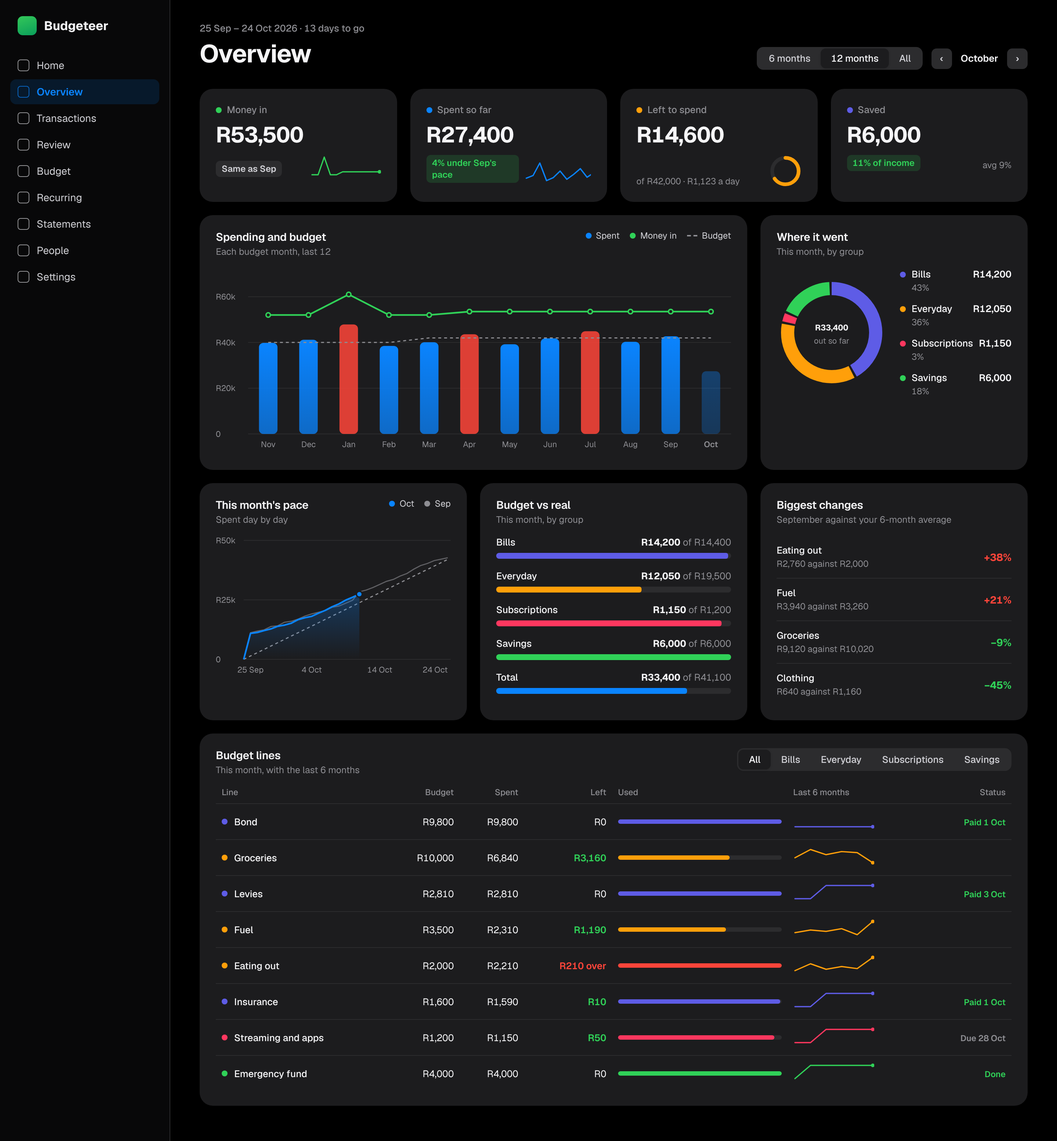
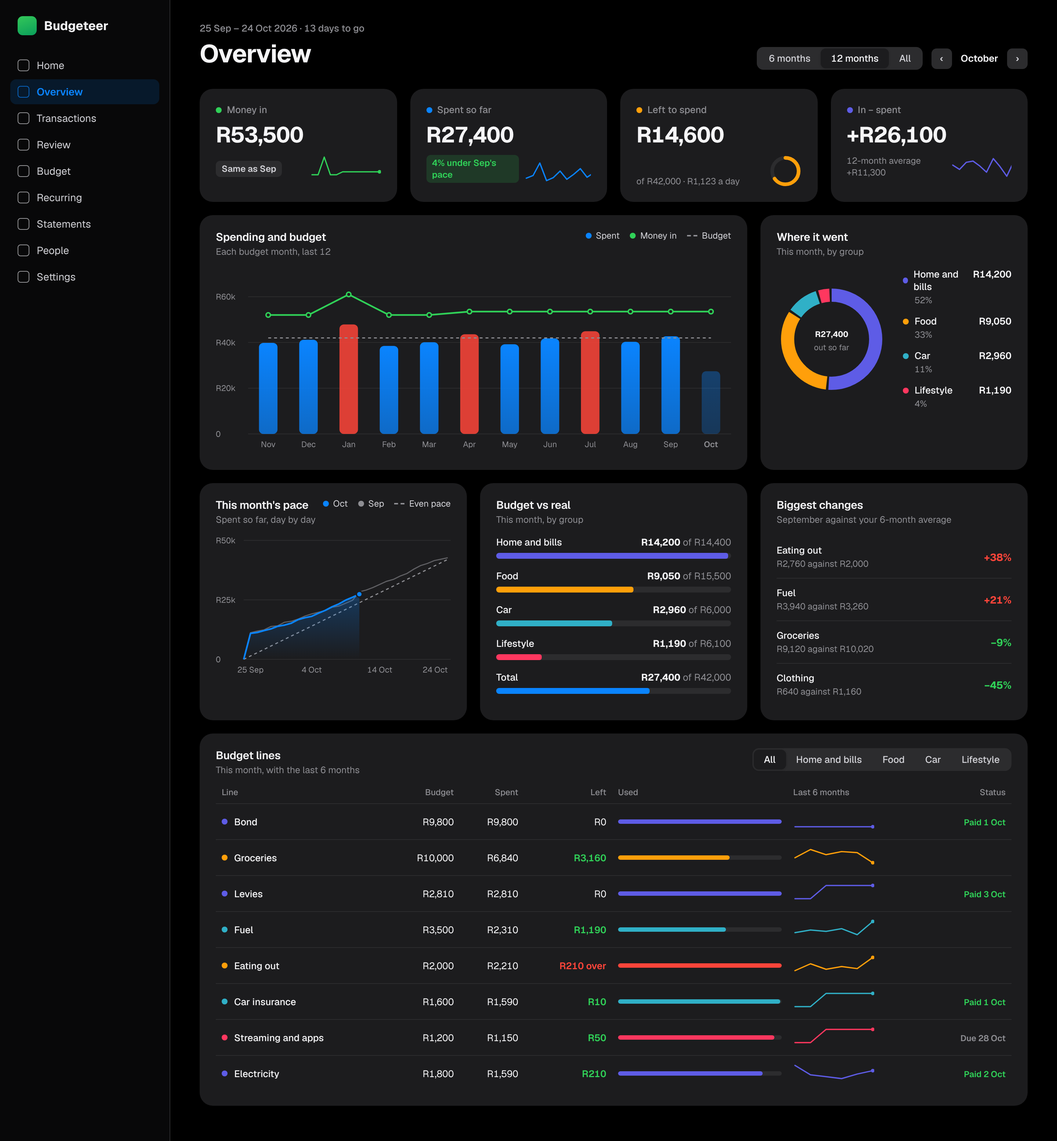
Desktop plan: the household's own groups, no savings, spending against the even pace
Claude-Session: https://claude.ai/code/session_017ijM4qa1Z928y2xQP9epqk

diff --git a/docs/mockups/desktop-overview.html b/docs/mockups/desktop-overview.html
@@ -9,7 +9,7 @@
 :root {
     --bg: #f5f5f7; --card: #ffffff; --text: #1d1d1f; --text-2: #424245; --muted: #86868b; --line: #e8e8ed; --track: #ececf0;
     --blue: #007aff; --green: #34c759; --red: #ff3b30; --orange: #ff9500; --indigo: #5856d6; --pink: #ff2d55; --teal: #30b0c7;
-    --bills: var(--indigo); --everyday: var(--orange); --subs: var(--pink); --savings: var(--green);
+    --g1: var(--indigo); --g2: var(--orange); --g3: var(--teal); --g4: var(--pink);
     --shadow: 0 1px 2px rgba(0,0,0,.04), 0 6px 24px rgba(0,0,0,.05);
 }
 :root[data-theme="dark"] {
@@ -128,9 +128,9 @@ td.num, th.num { text-align: right; }
                 <div class="foot"><span class="note">of R42,000 · R1,123 a day</span><svg id="ring" width="44" height="44"></svg></div>
             </section>
             <section class="card kpi c3">
-                <p class="label"><span class="dot" style="background:var(--indigo)"></span>Saved</p>
-                <p class="value">R6,000</p>
-                <div class="foot"><span class="chip good">11% of income</span><span class="note">avg 9%</span></div>
+                <p class="label"><span class="dot" style="background:var(--indigo)"></span>In − spent</p>
+                <p class="value">+R26,100</p>
+                <div class="foot"><span class="note">12-month average +R11,300</span><svg id="spark-net" width="96" height="30"></svg></div>
             </section>
 
             <section class="card c8">
@@ -150,8 +150,8 @@ td.num, th.num { text-align: right; }
 
             <section class="card c4">
                 <div class="card-head">
-                    <div><h2>This month's pace</h2><p class="sub">Spent day by day</p></div>
-                    <div class="legend"><span><span class="dot" style="background:var(--blue)"></span>Oct</span><span><span class="dot" style="background:var(--muted)"></span>Sep</span></div>
+                    <div><h2>This month's pace</h2><p class="sub">Spent so far, day by day</p></div>
+                    <div class="legend"><span><span class="dot" style="background:var(--blue)"></span>Oct</span><span><span class="dot" style="background:var(--muted)"></span>Sep</span><span><span class="dash"></span>Even pace</span></div>
                 </div>
                 <svg id="pace" width="100%" height="190"></svg>
             </section>
@@ -167,7 +167,7 @@ td.num, th.num { text-align: right; }
             <section class="card c12">
                 <div class="card-head">
                     <div><h2>Budget lines</h2><p class="sub">This month, with the last 6 months</p></div>
-                    <div class="seg"><span class="on">All</span><span>Bills</span><span>Everyday</span><span>Subscriptions</span><span>Savings</span></div>
+                    <div class="seg"><span class="on">All</span><span>Home and bills</span><span>Food</span><span>Car</span><span>Lifestyle</span></div>
                 </div>
                 <table>
                     <thead><tr><th>Line</th><th class="num">Budget</th><th class="num">Spent</th><th class="num">Left</th><th style="width:22%">Used</th><th>Last 6 months</th><th class="num">Status</th></tr></thead>
@@ -188,7 +188,7 @@ const css = v => getComputedStyle(document.documentElement).getPropertyValue(v).
 const months = ['Nov', 'Dec', 'Jan', 'Feb', 'Mar', 'Apr', 'May', 'Jun', 'Jul', 'Aug', 'Sep', 'Oct'];
 const spent = [39800, 41200, 47900, 38500, 40100, 43600, 39200, 41800, 44900, 40300, 42700, 27400];
 const income = [52000, 52000, 61000, 52000, 52000, 53500, 53500, 53500, 53500, 53500, 53500, 53500];
-const budget = [40000, 40000, 40000, 40000, 42000, 42000, 42000, 42000, 42000, 42000, 42000, 42000];
+const budget = Array(12).fill(42000); // today's budget for every month
 
 function spark(id, data, colour) {
     const s = document.getElementById(id), w = +s.getAttribute('width'), h = +s.getAttribute('height');
@@ -197,6 +197,7 @@ function spark(id, data, colour) {
     el('circle', { cx: x(data.length - 1), cy: y(data.at(-1)), r: 2.5, fill: colour }, s);
 }
 spark('spark-in', income, css('--green'));
+spark('spark-net', [12200, 10800, 13100, 13500, 11900, 9900, 14300, 11700, 8600, 13200, 10800], css('--indigo'));
 spark('spark-out', [39800, 41200, 47900, 38500, 40100, 43600, 39200, 41800, 44900, 40300, 42700], css('--blue'));
 
 // Ring: the share of the budget used.
@@ -222,7 +223,7 @@ spark('spark-out', [39800, 41200, 47900, 38500, 40100, 43600, 39200, 41800, 4490
 })();
 
 // Donut by group.
-const groups = [['Bills', 14200, '--bills'], ['Everyday', 12050, '--everyday'], ['Subscriptions', 1150, '--subs'], ['Savings', 6000, '--savings']];
+const groups = [['Home and bills', 14200, '--g1'], ['Food', 9050, '--g2'], ['Car', 2960, '--g3'], ['Lifestyle', 1190, '--g4']];
 (() => { const s = document.getElementById('donut'), r = 60, c = 2 * Math.PI * r, total = groups.reduce((a, g) => a + g[1], 0); let off = 0;
     groups.forEach(([n, v, col]) => { const len = c * v / total; el('circle', { cx: 75, cy: 75, r, fill: 'none', stroke: css(col), 'stroke-width': 18, 'stroke-dasharray': `${Math.max(0, len - 3)} ${c}`, 'stroke-dashoffset': -off, transform: 'rotate(-90 75 75)' }, s); off += len; });
     const t1 = el('text', { x: 75, y: 72, 'text-anchor': 'middle', 'font-size': 18, 'font-weight': 700 }, s); t1.textContent = R(total); t1.style.fill = css('--text');
@@ -248,21 +249,21 @@ const groups = [['Bills', 14200, '--bills'], ['Everyday', 12050, '--everyday'], 
 })();
 
 // Budget vs real per group: a track for the budget, filled to what is spent.
-document.getElementById('bvr').innerHTML = [['Bills', 14200, 14400, '--bills'], ['Everyday', 12050, 19500, '--everyday'], ['Subscriptions', 1150, 1200, '--subs'], ['Savings', 6000, 6000, '--savings'], ['Not on a line', 0, 900, '--muted']].slice(0, 4).concat([['Total', 33400, 41100, '--blue']]).map(([n, v, bud, col]) =>
+document.getElementById('bvr').innerHTML = [['Home and bills', 14200, 14400, '--g1'], ['Food', 9050, 15500, '--g2'], ['Car', 2960, 6000, '--g3'], ['Lifestyle', 1190, 6100, '--g4'], ['Total', 27400, 42000, '--blue']].map(([n, v, bud, col]) =>
     `<div style="margin-bottom:15px"><div style="display:flex;justify-content:space-between;font-size:13px;margin-bottom:6px"><span style="font-weight:500">${n}</span><span><b>${R(v)}</b> <span style="color:var(--muted)">of ${R(bud)}</span></span></div><div class="prog" style="height:8px;border-radius:4px"><div style="width:${Math.min(100, v / bud * 100)}%;background:var(${col})"></div></div></div>`).join('');
 
 document.getElementById('changes').innerHTML = [['Eating out', 'R2,760 against R2,000', '+38%', 'up'], ['Fuel', 'R3,940 against R3,260', '+21%', 'up'], ['Groceries', 'R9,120 against R10,020', '−9%', 'down'], ['Clothing', 'R640 against R1,160', '−45%', 'down']].map(([n, s, p, d]) =>
     `<div class="change"><div class="who"><b>${n}</b><span>${s}</span></div><span class="pct ${d}">${p}</span></div>`).join('');
 
 const lines = [
-    ['Bond', '--bills', 9800, 9800, 'Paid 1 Oct', [9800, 9800, 9800, 9800, 9800, 9800]],
-    ['Groceries', '--everyday', 10000, 6840, '', [9600, 10400, 9900, 10200, 10100, 9120]],
-    ['Levies', '--bills', 2810, 2810, 'Paid 3 Oct', [2690, 2690, 2810, 2810, 2810, 2810]],
-    ['Fuel', '--everyday', 3500, 2310, '', [3100, 3300, 3200, 3400, 2950, 3940]],
-    ['Eating out', '--everyday', 2000, 2210, '', [1800, 2300, 1900, 2100, 1950, 2760]],
-    ['Insurance', '--bills', 1600, 1590, 'Paid 1 Oct', [1540, 1540, 1590, 1590, 1590, 1590]],
-    ['Streaming and apps', '--subs', 1200, 1150, 'Due 28 Oct', [1100, 1100, 1150, 1150, 1150, 1150]],
-    ['Emergency fund', '--savings', 4000, 4000, 'Done', [3000, 4000, 4000, 4000, 4000, 4000]],
+    ['Bond', '--g1', 9800, 9800, 'Paid 1 Oct', [9800, 9800, 9800, 9800, 9800, 9800]],
+    ['Groceries', '--g2', 10000, 6840, '', [9600, 10400, 9900, 10200, 10100, 9120]],
+    ['Levies', '--g1', 2810, 2810, 'Paid 3 Oct', [2690, 2690, 2810, 2810, 2810, 2810]],
+    ['Fuel', '--g3', 3500, 2310, '', [3100, 3300, 3200, 3400, 2950, 3940]],
+    ['Eating out', '--g2', 2000, 2210, '', [1800, 2300, 1900, 2100, 1950, 2760]],
+    ['Car insurance', '--g3', 1600, 1590, 'Paid 1 Oct', [1540, 1540, 1590, 1590, 1590, 1590]],
+    ['Streaming and apps', '--g4', 1200, 1150, 'Due 28 Oct', [1100, 1100, 1150, 1150, 1150, 1150]],
+    ['Electricity', '--g1', 1800, 1590, 'Paid 2 Oct', [1950, 1700, 1650, 1600, 1720, 1810]],
 ];
 document.getElementById('lines').innerHTML = lines.map(([n, col, bud, sp, st, hist], i) => {
     const left = bud - sp, over = left < 0;
@@ -271,7 +272,7 @@ document.getElementById('lines').innerHTML = lines.map(([n, col, bud, sp, st, hi
         <td class="num ${over ? 'left-over' : left === 0 ? '' : 'left-ok'}">${over ? R(-left) + ' over' : R(left)}</td>
         <td><div class="prog"><div style="width:${Math.min(100, sp / bud * 100)}%;background:${over ? 'var(--red)' : `var(${col})`}"></div></div></td>
         <td><svg id="ls${i}" width="110" height="24"></svg></td>
-        <td class="num"><span class="status ${st.startsWith('Paid') || st === 'Done' ? 'paid' : ''}">${st}</span></td></tr>`;
+        <td class="num"><span class="status ${st.startsWith('Paid') ? 'paid' : ''}">${st}</span></td></tr>`;
 }).join('');
 lines.forEach((ln, i) => spark('ls' + i, ln[5], css(ln[1])));
 </script>

diff --git a/docs/DESKTOP-PLAN.md b/docs/DESKTOP-PLAN.md
@@ -4,11 +4,22 @@ A high-level summary for the Mac: how this budget month is going and how the mon
 screen in the style of Apple's own apps. It is for sitting down once a week or at month end, not for doing
 the bookkeeping, which stays on the existing screens. The phone screens do not change.
 
-This is a plan, not built yet. The mockup shows the look with made-up numbers:
+This is a plan, not built yet. The mockup shows the look with made-up numbers and made-up groups:
 [`docs/mockups/desktop-overview.html`](mockups/desktop-overview.html), with screenshots in
-[light](mockups/overview-light.png) and [dark](mockups/overview-dark.png). Questions still open are at the end.
+[light](mockups/overview-light.png) and [dark](mockups/overview-dark.png).
 
 ![Overview mockup, light](mockups/overview-light.png)
+
+## Decided
+
+| Question | Decision |
+|---|---|
+| Own screen or Home on a wide screen | **Own screen**, Overview; Home stays the start page |
+| Groups | **The household's own groups**, named and filled from its own budget lines; no fixed list |
+| Savings | **Left out**: no Saved tile, no savings group, transfers stay out of everything |
+| Line chart | **Spending against the even pace** of the budget, not account balances |
+| Budget line in the monthly bars | Today's budget for every month (the app keeps no old budgets) |
+| Font | Geist, as on every other screen |
 
 ---
 
@@ -16,16 +27,17 @@ This is a plan, not built yet. The mockup shows the look with made-up numbers:
 
 | Panel | Question it answers | Built from |
 |---|---|---|
-| Four tiles: **Money in**, **Spent so far**, **Left to spend**, **Saved** | Where do we stand this month? Each with a small trend or a comparison with last month | This month's totals; the same day last month; the last 12 months |
-| **Spending and budget** (12 bars, a money-in line, a dashed budget line) | Are we living within the budget and within what comes in, month after month? | One total per budget month |
+| Four tiles: **Money in**, **Spent so far**, **Left to spend**, **In − spent** | Where do we stand this month? Each with a small trend or a comparison with last month | This month's totals; the same day last month; the last 12 months |
+| **Spending and budget** (bars per month, a money-in line, the budget dashed) | Are we living within the budget and within what comes in, month after month? | One total per budget month |
 | **Where it went** (donut by group) | What does the money go to? | This month by group |
-| **This month's pace** (running total, last month in grey, the even pace dashed) | Are we spending faster than usual this month? | Spent per day, this month and last |
-| **Budget vs real** (one bar per group and a total) | Which kind of spending is using the budget? | This month by group |
+| **This month's pace** (running total, last month in grey, the even pace dashed) | Are we spending faster than the budget allows? | Spent per day, this month and last |
+| **Budget vs real** (a bar per group and the total) | Which kind of spending is using the budget? | This month by group |
 | **Biggest changes** | What has changed lately? | Last full month per line against its average over the 6 months before |
-| **Budget lines** (table, filter by group) | How is each line doing, and is it usually like this? | This month per line, a 6-month sparkline, the recurring payment's status |
+| **Budget lines** (table, filtered by group) | How is each line doing, and is it usually like this? | This month per line, a 6-month sparkline, the recurring payment's status |
 
 The range control (6 months, 12 months, All) sets how far back the bars and sparklines reach; the arrows step
-through budget months, like the period switcher on Home.
+through budget months, like the period switcher on Home. Clicking a bar, a group, a line or a change opens
+Transactions filtered to it.
 
 ## 2. Where it lives
 
@@ -33,9 +45,9 @@ A new screen, **Overview** (`GET /overview`, `OverviewController`), second in th
 Recurring and Statements it is in the sidebar only, so no phone tab links to it; under 64rem it still works,
 stacked in one column. It takes Home's `?in=` date, plus `range=6|12|all`.
 
-The page is wider than the others (about 88rem against 72rem) and laid out on a 12-column grid: tiles of 3
-columns, then 8 + 4, then 4 + 4 + 4, then the table across all 12. That fits a 13-inch MacBook (1440 by 900
-points) with the tiles and the first charts above the fold, and stays balanced up to a 27-inch screen.
+The page is wider than the others (about 88rem against 72rem) on a 12-column grid: tiles of 3 columns, then
+8 + 4, then 4 + 4 + 4, then the table across all 12. That fits a 13-inch MacBook (1440 by 900 points) with the
+tiles and the first charts above the fold, and stays balanced up to a 27-inch screen.
 
 ## 3. The look
 
@@ -45,100 +57,90 @@ Apple's apps (Health, Stocks, Screen Time, System Settings) are the model:
   borders; in dark mode a black page and `#1c1c1e` cards without shadow, following the Mac's appearance
   setting as the app already does.
 - **Colour:** Apple's system colours, used sparingly and always with a word or number beside them: blue for
-  spending, green for money in and savings, orange for what is left, red only for over budget. The four
-  groups get indigo (Bills), orange (Everyday), pink (Subscriptions) and green (Savings), and keep them
-  everywhere: donut, bars, table dots.
-- **Type:** one large bold title, big figures in the tiles, small grey labels, tabular figures so amounts line
-  up. The app's Geist font is already close to SF Pro (see question 3).
+  spending, green for money in, orange for what is left, red only for over budget. Each group has its own
+  colour (4.1) and keeps it everywhere: donut, bars, table dots, sparklines.
+- **Type:** Geist; one large bold title, big figures in the tiles, small grey labels, tabular figures so
+  amounts line up.
 - **Controls:** a segmented control for the range and the table filter, small rounded arrows for the month.
-- **Charts:** rounded bar tops, a soft gradient under the running total, thin hairline grids, a dot on the
-  latest value, no chart borders or 3D.
-- **Calm:** white space instead of lines, at most four colours per chart, and the over-budget red only where
-  something is really over (a month more than 3% over its budget, a line over its amount).
+- **Charts:** rounded bar tops, a soft gradient under the running total, hairline grids, a dot on the latest
+  value, no chart borders or 3D.
+- **Calm:** white space instead of lines, few colours per chart, and red only where something is really over
+  (a month more than 3% over its budget, a line over its amount).
 
 The new colours and the card style are tokens in `public/css/app.css` with light and dark values, scoped to
-`.overview` so the phone screens look exactly as now. The sidebar gets a light touch to match (selected item
-in a soft blue pill, as in the mockup), which phones never see.
+`.overview` so the phone screens look exactly as now. The sidebar gets a light touch to match (the selected
+item in a soft blue pill), which phones never see.
 
 ## 4. Changes to the data
 
-### 4.1 A group for each budget line
+### 4.1 The household's own groups
 
-New column `categories.group` (string, nullable), cast to a new enum `App\Enums\CategoryGroup`:
+Groups are made by the household from its own budget lines, so they fit however the budget is already
+thought of ("Huis", "Kos", "Kar", "Kinders", or anything else).
 
-| Value | Shown as | Meant for |
-|---|---|---|
-| `bills` | Bills | Fixed monthly costs: bond or rent, levies, insurance, phone, electricity |
-| `everyday` | Everyday | Groceries, fuel, eating out, clothing |
-| `subscriptions` | Subscriptions | Streaming, apps, gym, cloud storage |
-| `savings` | Savings | Money put away (4.2) |
+- New table `category_groups`: `household_id`, `name` (unique per household), `colour`, `sort`.
+- New column `categories.category_group_id`, nullable, set to null when its group is removed.
+- **Colour:** handed out in turn from a palette of Apple system colours (indigo, orange, teal, pink, purple,
+  yellow, mint, brown), the way people and projects get theirs (`HasOwnerColour`), and changeable.
+- **Budget screen, new Groups section:** add, rename, reorder and remove groups. Each budget line gets a group
+  select beside its amount, saved with the existing **Save**.
+- **Pasted budgets:** a line with no amount ("Huis", "Kar") starts a group, and the lines under it go into
+  it, so a spreadsheet laid out in sections pastes in one go.
+- **Lines without a group** count under "Other" in the group panels. With no groups at all, the donut and
+  Budget vs real show the five biggest lines and "Everything else" instead, so the Overview is useful from the
+  first day.
 
-An expense line without a group counts as Everyday; income lines need none.
+### 4.2 Nothing else
 
-- The migration fills it once with a guess, kept in `App\Support\CategoryGroups::guess()` beside
-  `CategoryIcons::guess()` so new lines get it too: a line linked to a monthly recurring payment is Bills; a
-  name like `netflix|spotify|showmax|dstv|youtube|icloud|google one|gym|subscription` Subscriptions;
-  `savings|invest|retirement|emergency|unit trust|tfsa` Savings; anything else Everyday.
-- On the Budget screen each line gets a small group select beside its amount, saved with the existing
-  **Save**. A pasted budget may have heading lines ("Bills", "Savings") that set the group of the lines below.
-
-### 4.2 Savings
-
-Money moved to the money market account is a transfer between own accounts, so it is (rightly) not spending.
-For **Saved** and the Savings group, a savings line's real amount is what was categorised to it plus transfers
-in the month into the account chosen for it (a new nullable `categories.savings_account_id`, offered on the
-Budget screen for Savings lines, listing money market accounts). Those transfers stay transfers: Home and
-*Left to spend* never count them as spending.
-
-Saved as a share of income is shown only for months with money in.
+No other new data: money in, spending, budgets, days and recurring payments are all there already.
 
 ## 5. The numbers
 
 Two services, so Home and Overview can never disagree:
 
 - **`App\Services\MonthSummary`** takes over the sums `HomeController` does today (money in, spent, each line,
-  with the same rules: transfers, purchases charged to people and special projects left out, uncategorised
-  spending as its own line) and adds groups, savings and spent per day. Home then reads from it; the existing
-  Home tests (`NavigationTest`, `OwedTest`, `ProjectTest`, `RecurringTest`) must pass unchanged.
-- **`App\Services\Trends`** gives the months for the range: per budget month, money in, spent, budget, saved,
-  and spent per line. It runs one query over the whole range, grouped by day and category, and sorts the rows
-  into budget months in PHP (`BudgetPeriod`), since months start on the household's own day. A few years of a
-  household's transactions is a few thousand rows, so no caching is needed at first.
-
-Rules the panels follow:
+  with the same rules: transfers between own accounts, purchases charged to people and special projects left
+  out; uncategorised spending as its own line) and adds the groups and spent per day. Home then reads from it;
+  the existing Home tests (`NavigationTest`, `OwedTest`, `ProjectTest`, `RecurringTest`) must pass unchanged.
+- **`App\Services\Trends`** gives the months in the range: per budget month money in, spent and spent per
+  line. One query over the whole range, grouped by day and category, sorted into budget months in PHP with
+  `BudgetPeriod`, since months start on the household's own day. A few years of transactions is a few thousand
+  rows, so no caching at first.
 
 | Number | Rule |
 |---|---|
 | Spent so far against last month | Spent up to the same day of last month's period ("4% under Sep's pace") |
-| Left to spend a day | Left to spend ÷ days to go, shown only for the current month |
-| Budget line in the bars | The budget total as it is now; the app does not keep old budgets (question 4) |
+| Left to spend a day | Left to spend ÷ days to go, for the current month only |
+| In − spent | Money in minus spent, as on Home; the sparkline shows it per month |
+| Even pace | A straight line from nothing on the first day to the whole budget on the last |
+| Budget in the monthly bars | Today's budget for every month; a month more than 3% over it is red |
 | Months shown | From the first month with transactions (or the household's keep-from date); empty months are not drawn |
 | Biggest changes | The last full month per line against the average of the 6 before it; lines with at least R300 a month and a change of at least R200; the two biggest rises and the two biggest falls |
-| Status in the table | From `RecurringSchedule::occurrences()`: paid with date, due with date, late or changed; Savings lines say Done once their amount is reached |
+| Status in the table | From `RecurringSchedule::occurrences()`: paid with its date, due with its date, late or changed |
 
 ## 6. Drawing the charts
 
 No chart library. The site's security policy allows only its own scripts and no inline styles, there is no
 JavaScript build step, and the bars, rings and circles the app already has are SVG drawn on the server. The
 charts follow suit: Blade components work out the geometry in PHP and give every shape a class, so colours
-come from the stylesheet and switch with dark mode. Gradients are SVG `<linearGradient>` definitions, which the
-policy allows.
+come from the stylesheet and switch with dark mode. Group colours are classes too (`.group-indigo` …), one per
+palette colour. Gradients are SVG `<linearGradient>` definitions, which the policy allows.
 
 | Component | Draws |
 |---|---|
 | `x-chart.columns` | Monthly bars with a line and a dashed reference line (Spending and budget) |
-| `x-chart.area` | Running totals with a gradient fill (This month's pace) |
+| `x-chart.area` | Running totals with a gradient fill and the even pace (This month's pace) |
 | `x-chart.donut` | Shares as arcs (`stroke-dasharray`) with the total in the middle |
 | `x-chart.spark` | Sparklines in the tiles and the table |
 | `x-ring`, `x-bar` | Exist already; reused for Left to spend and Budget vs real |
 
-- The geometry (scales, nice tick values like R20k, arcs) lives in `App\Support\Charts` and is unit-tested
+- The geometry (scales, round tick values like R20k, arcs) lives in `App\Support\Charts` and is unit-tested
   without rendering.
 - **Hover:** every bar, point and slice has an SVG `<title>`, so the Mac shows its value as a tooltip with no
   JavaScript. A later step can add a small `public/js/overview.js` for an Apple-style hover readout (a
   vertical line with the month's numbers), still allowed by the policy.
 - **Accessible:** each chart has `role="img"` and an `aria-label` that says its numbers; the table holds the
-  per-line numbers; colours are never the only signal; a `forced-colors` block as for the bars.
+  per-line numbers; colour is never the only signal; a `forced-colors` block as for the bars.
 
 ## 7. Steps
 
@@ -147,29 +149,17 @@ Each step is a branch merged into `main` with `composer check` green, and leaves
 | # | Step | Visible change | Tests |
 |---|---|---|---|
 | 1 | `MonthSummary`; Home reads from it | None | Sums and exclusions; Home tests unchanged |
-| 2 | Groups: column, guess, select on Budget, headings in pasted budgets | Group select on Budget | Guess, saving, `BudgetList` with headings |
-| 3 | Overview screen with the look: tiles, Budget vs real, Budget lines table (no sparklines yet); sidebar item | New screen | Each panel's numbers; excluded transactions; empty household |
-| 4 | `Trends` and the charts: Spending and budget, Where it went, This month's pace, sparklines; range control | Charts | `Charts` geometry; `Trends` month bucketing with a start day of 25; chart labels carry the numbers |
-| 5 | Savings with a savings account; the Saved tile | Saved tile, Savings real amounts | Transfers count as saved, never as spent |
-| 6 | Biggest changes | Panel | The thresholds and the ordering |
-| 7 | Polish: hover readout script, check at 1280, 1440 and 1920 wide in Safari, light and dark | Hover readout | Browser screenshots at those widths |
+| 2 | Groups: table and column, Groups section and select on Budget, sections in pasted budgets | Groups on Budget | Adding, renaming, removing (lines become ungrouped), colours in turn, pasting with sections |
+| 3 | Overview screen with the look: tiles, Budget vs real, Budget lines table (no sparklines yet); sidebar item | New screen | Each panel's numbers; excluded transactions; no groups yet; empty household |
+| 4 | `Trends` and the charts: Spending and budget, Where it went, This month's pace, sparklines; range control | Charts | `Charts` geometry; `Trends` bucketing with a start day of 25; chart labels carry the numbers |
+| 5 | Biggest changes; clicks through to Transactions, which learns a `group` filter | Panel, links | Thresholds and ordering; each link's filter |
+| 6 | Polish: hover readout, check at 1280, 1440 and 1920 wide in Safari, light and dark | Hover readout | Browser screenshots at those widths |
 
 Steps 1 to 4 give the screen most of its value.
 
 ## 8. Not planned
 
+- Savings (decided above).
 - Editing amounts on the Overview; that stays on the Budget screen, one click away from each line.
-- A transaction filter on the Overview; Transactions already filters, and a click on a line, bar or month
-  opens Transactions filtered to it.
+- A transaction filter on the Overview; Transactions already filters.
 - A chart library or a JavaScript build step.
-
-## 9. Questions
-
-1. **Groups:** are Bills, Everyday, Subscriptions and Savings the right four for your budget lines?
-2. **Savings:** count transfers into the money market account as saved (4.2), or only what is categorised to a
-   Savings line by hand?
-3. **Font:** keep Geist (as in the mockup), or use the Mac's own SF Pro (`-apple-system`) on the Overview, or
-   on every screen, which would also change the look on iPhone?
-4. **Past budgets:** the dashed budget line uses today's budget for every month. Keeping a copy of the budget
-   each month (a small `budget_snapshots` table) would make it exact from now on; worth it?
-5. **Landing page:** on the Mac, open on the Overview instead of Home?
